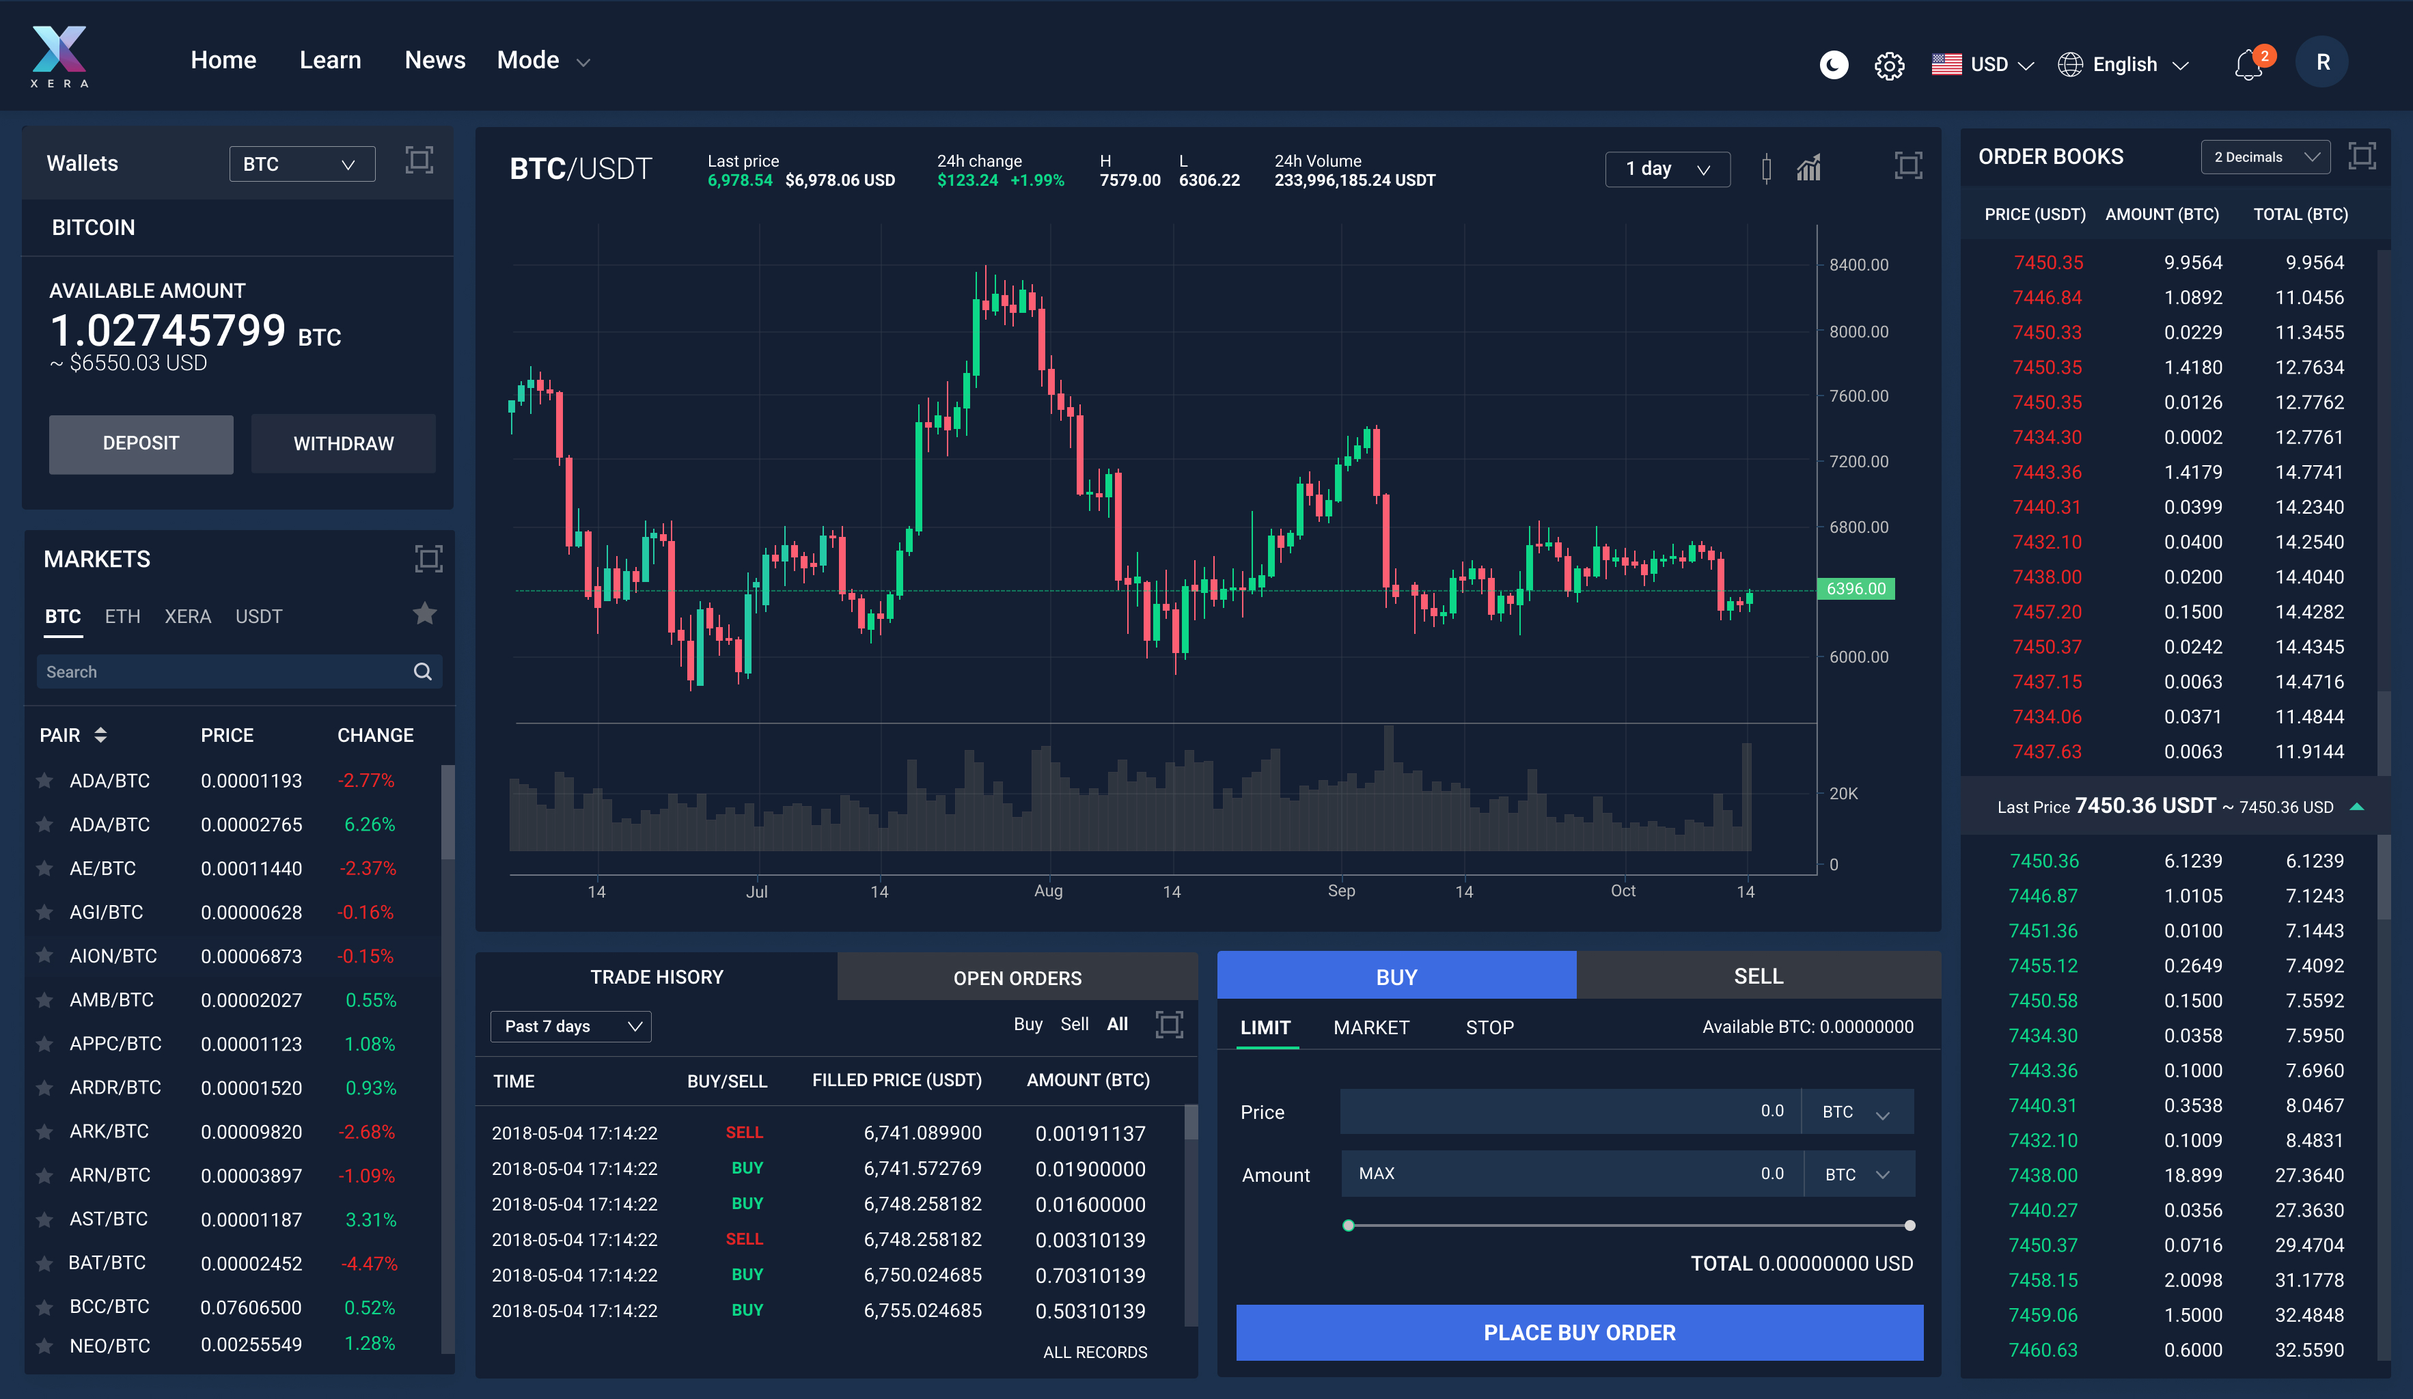
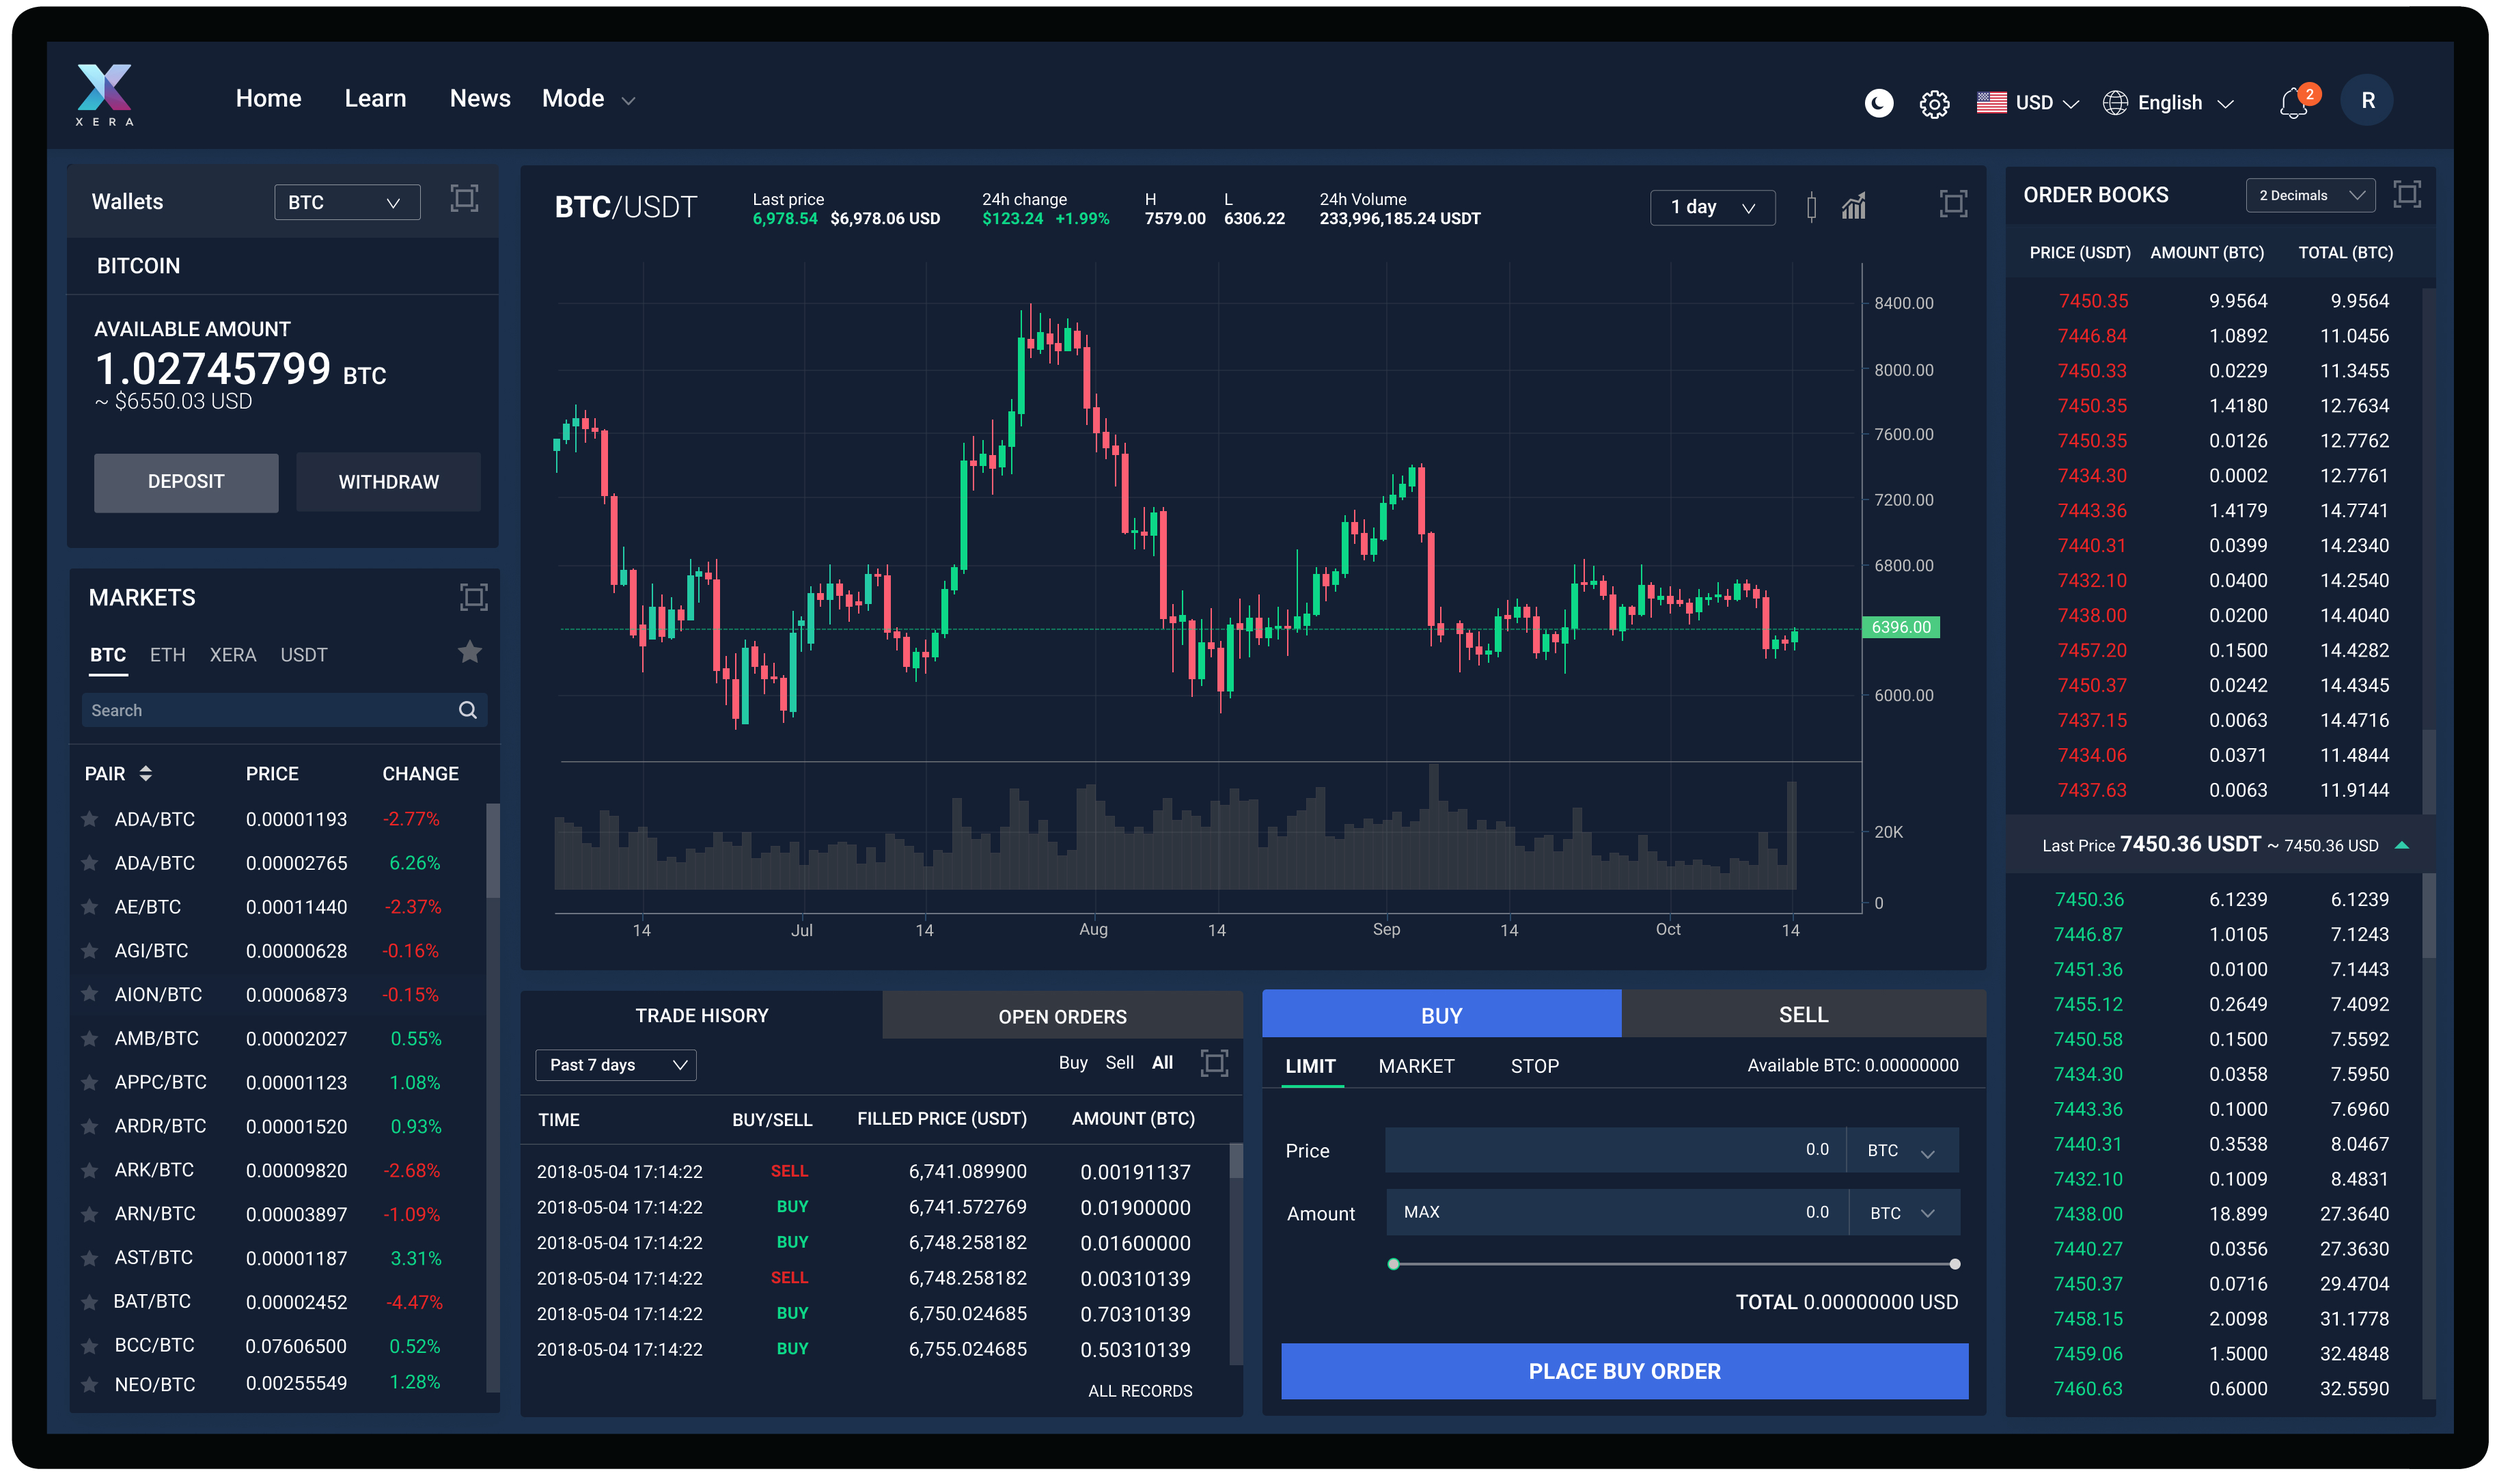
add screens

Changed region(s): [[0.0, 0.0, 1.0, 1.0], [0.436, 0.2812, 0.5294, 0.4688], [0.4049, 0.1875, 0.436, 0.2812]]

diff --git a/src/pages/xera.html b/src/pages/xera.html
@@ -38,64 +38,47 @@
     </div>
 </section>
 
-<!-- <section class="project-section xera-project-dashboard">
+<section class="project-section xera-dashboard">
     <div class="grid-container">
-        <div class="grid-x grid-margin-x">
-            <div class="cell large-5 project-section-content">
-                <div>
-                    <p class="sub-heading-01 uppercase">Designs<span></span></p>
-                </div>
-                <h5 class="uppercase">Dashboard</h5>
-                <p class="light-color">Lorem ipsum dolor sit amet consectetur adipisicing elit. Eius recusandae voluptates iusto impedit debitis, delectus molestias fuga temporibus? I was responsible for coming up with inital concepts pre ICO bla bla bla.</p>
+        <div class="grid-x">
+            <div class="cell large-8 medium-8 small-12 dashboard-content">
+                <h5 class="uppercase xera-heading"><span></span> The dashboard </h5>
             </div>
-            <div class="cell large-7 project-screen">
+        </div>
+        <div class="grid-x grid-margin-x">
+            <div class="cell large-10 large-offset-1 fw-img dashboard-img">    
                 <img src="assets/img/portfolio-items/xera/xera-dashboard.png" alt="">
             </div>
-        </div>
-
-    </div>
-</section> -->
-
-
-<section class="project-section xera-screens">
-    <div class="grid-container">
-        <!-- <div class="grid-x">
-            <div class="cell large-6 large-offset-2 medium-6 medium-offset-2 small-12 platform-content">
-                <h4 class="sub-heading-01 uppercase">The Designs <span></span></h4>
-                <p class="light-color">Lorem ipsum dolor sit amet consectetur adipisicing elit. Eius recusandae voluptates iusto impedit debitis, delectus molestias fuga temporibus? I was responsible for coming.</p>
-            </div>
-        </div> -->
-        <div class="grid-x grid-margin-x">
-            <div class="cell large-10 large-offset-1 fw-img">    
-                <img src="assets/img/portfolio-items/xera/xera-dashboard-02.png" alt="">
-            </div>
-            <div class="cell large-10 large-offset-1 fw-img">    
+            <div class="cell large-10 large-offset-1 fw-img dashboard-img">    
                 <img src="assets/img/portfolio-items/xera/xera-withdraw-02.png" alt=""> 
             </div>
-            <!-- <div class="cell large-10 large-offset-1 fw-img">    
-                <img src="assets/img/portfolio-items/xera/xera-mobile-temp.jpg" alt=""> 
-            </div> -->
         </div>
     </div>
-    <!-- <div class="platform-solid-bg"></div> -->
+    <div class="dashboard-solid-bg"></div>
 </section>
 
 
 
 <section class="project-section xera-styles">
     <div class="grid-container">
-        <div class="grid-x grid-margin-x">
-            <div class="cell large-12">
-                <h3 class="sub-heading-04 uppercase">Typography and colours<span></span></h3>
+        <div class="grid-x">
+            <div class="cell large-12 medium-12 small-12 style-content">
+                <h5 class="uppercase xera-heading"><span></span> Typography and colours</h5>
             </div>
+        </div>
+        <div class="grid-x grid-margin-x">
+            <!-- <div class="cell large-12">
+                <h3 class="sub-heading-04 uppercase">Typography and colours<span></span></h3>
+            </div> -->
+ 
             <div class="cell large-6 medium-12 small-12 xera-typeface">
-                <p class="sub-heading-01 uppercase">typeface</p>
+                <p class="sub-heading-01 uppercase text-reverse">typeface</p>
                 <p class="light-color typeface-intro">For maximum readability and special character support, Roboto was chosen as the primary typeface.</p>
-                <img src="assets/img/portfolio-items/xera/typeface.svg" alt="">
+                <img src="assets/img/portfolio-items/xera/typeface-reverse.svg" alt="">
             </div>
             <div class="cell large-6 medium-12 small-12">
                 <p class="sub-heading-01 uppercase">colours</p>
-                <img src="assets/img/portfolio-items/xera/color-styles.svg" alt="">
+                <img src="assets/img/portfolio-items/xera/color-style-reverse.svg" alt="">
             </div>
         </div>
     </div>
@@ -105,18 +88,19 @@
     <div class="grid-container">
         <div class="grid-x">
             <div class="cell large-8 medium-8 small-12 platform-content">
-                <!-- <p class="sub-heading-01 uppercase">Designs<span></span></p> --> 
-                <h4 class="sub-heading-01 uppercase">The platform <span></span></h4>
-                <p class="light-color">Lorem ipsum dolor sit amet consectetur adipisicing elit. Eius recusandae voluptates iusto impedit debitis, delectus molestias fuga temporibus? I was responsible for coming up with inital concepts pre ICO bla bla bla.</p>
+                <h5 class="uppercase xera-heading"><span></span> The platform </h5>
             </div>
         </div>
         <div class="grid-x">
             <div class="cell large-12 platform-img">    
-                <img src="assets/img/portfolio-items/xera/Xera-platform-01.png" alt="">
+                <img src="assets/img/portfolio-items/xera/Xera-platform-02.png" alt="">
             </div>
         </div>
     </div>
     <div class="platform-solid-bg"></div>
+    <div class="background-img">
+        <img src="assets/img/portfolio-items/xera/background-dots.png" alt="">
+    </div>
 </section>
 
 
@@ -125,6 +109,9 @@
         <img src="assets/img/portfolio-items/xera/wireframes.jpg" alt="">
     </section> -->
 
-    {{> footer}}
+    <div class="xera-footer">
+        {{> footer-reverse}}
+    </div>
+    
 
 <!-- End of footer wrapper -->

diff --git a/src/assets/scss/pages/_xera.scss b/src/assets/scss/pages/_xera.scss
@@ -12,10 +12,6 @@
 // }
 
 $xera-color: #3693C9;
-// $xera-color: #5073e1;
-// $xera-color: #2a4969;
-// $xera-color: #2b56f5;
-
 .xera-wrapper {
     background: #f2f3f7;
 }
@@ -27,7 +23,6 @@ $xera-color: #3693C9;
 // Xera hero section
 .xera-hero {
     position: relative;
-    // background: lighten($xera-color, 35);
     background: rgba($font-color, 0.01);
     .project-tag {
         font-family: $bold-font;
@@ -55,7 +50,6 @@ $xera-color: #3693C9;
 .bg-solid {
     height: 100vh;
     width: 30%;
-    // background: lighten($xera-color, 30);
     background: rgba($font-color, 0.02);
     position: absolute;
     right: 0;
@@ -75,50 +69,42 @@ $xera-color: #3693C9;
     }
 }
 
-.xera-project-dashboard {
-    .project-section-content {
-        display: flex;
-        flex-direction: column;
-        justify-content: center;
+// Dashboard
+.xera-dashboard {
+    padding: 90px 0px;
+    // background: $xera-gradient;
+    background: darken(#1B314D, 5);
+    position: relative;
+    .dashboard-img {
+        z-index: 10;
+    }
+    .dashboard-solid-bg {
+        height: 100%;
+        width: 30%;
+        // background: rgba($white, 0.02);
+        background: darken(#1B314D, 8);
+        position: absolute;
+        right: 0;
+        z-index: 0;  
+        bottom: 0px;
     }
 }
 
 .xera-screens {
     background: #F7F8F9;
 }
- 
-// Platform
-.xera-platform {
-    background: #F7F8F9;
-    position: relative;
-    .platform-content,
-    .platform-img {
-        z-index: 100;
-    }
-    .platform-content {
-        margin-bottom: 30px;
-    }
-    .platform-solid-bg {
-        height: 100%;
-        width: 30%;
-        // background: rgba($font-color, 0.05);
-        background: rgba($xera-color, 0.05);
-        // background: $xera-color;
-        position: absolute;
-        right: 0;
-        z-index: 1;  
-        bottom: 0px;
-    }
-}
 
 // Xera styles
 .xera-styles {
+    padding: 120px 0px;
+    background: darken(#1B314D, 10);
+    * {
+        color: $white;
+    }
     img {
         width: 100%;
     }
     .xera-typeface {
-        // border-right: none;
-        margin-bottom: 60px;
         .typeface-intro {
             padding-right: 30px;
             margin-bottom: 20px;
@@ -129,8 +115,67 @@ $xera-color: #3693C9;
 @media screen and (min-width: 64em){
     .xera-styles {
         .xera-typeface {
-            margin-bottom: 60px;
             border-right: 1px solid rgba($font-color, 0.15);
         }
     }
+}
+ 
+// Platform
+.xera-platform {
+    // background: $xera-gradient;
+    background: darken(#1B314D, 5);
+    position: relative;
+    padding: 120px 0px;
+    padding-bottom: 150px;
+    .platform-content,
+    .platform-img {
+        z-index: 10;
+    }
+    .platform-solid-bg {
+        height: 100%;
+        width: 30%;
+        // background: rgba($white, 0.02);
+        background: darken(#1B314D, 8);
+        position: absolute;
+        right: 0;
+        z-index: 1;  
+        bottom: 0px;
+    }
+    .background-img {
+        position: absolute;
+        bottom: 0;
+        img {
+            width: 100%;
+            opacity: 0.25;
+        }
+    }
+}
+
+
+// Heading
+
+.xera-heading {
+    color: rgba($white, 0.25);
+    display: inline-block;
+    position: relative;  
+    font-family: $black-font;
+    margin-left: 50px;
+    margin-bottom: 90px;
+    span::before { 
+        content: "";
+        position: absolute;
+        left: -50px;
+        height: 30px;
+        background: #39C2D3;
+        top: 50%;
+        transform: translateY(-50%);
+        width: 2px;
+    }
+}
+
+
+// Xera footer 
+.xera-footer {
+    // background: darken(#202b41, 4);
+    background: darken(#1B314D, 9);   
 }

diff --git a/src/assets/scss/components/_design.scss b/src/assets/scss/components/_design.scss
@@ -241,7 +241,7 @@ img {
 
 /* UTILITY CLASSES */
 
-.white-text {
+.text-reverse {
     color: $white !important;
 }
   
@@ -275,17 +275,17 @@ img {
 .sub-heading-03,
 .sub-heading-04 {
     margin-bottom: 30px;
-    color: rgba($font-color, 0.5) !important;
+    // color: rgba($font-color, 0.5) !important;
     display: inline-block;
     position: relative;  
-    font-family: $black-font;
+    font-family: $bold-font;
     span:after { 
         content: "";
         position: absolute;
         left: 100%;
         margin-left: 5px;
         height: 2px;
-        background: rgba($font-color, 0.5) !important;
+        // background: rgba($font-color, 0.5) !important;
         top: 50%;
         transform: translateY(-50%);
         width: 30px;
@@ -293,7 +293,7 @@ img {
 }
 
 .sub-heading-02 {
-    color: $font-color !important;
+    // color: $font-color !important;
     span:after { 
         content: "";
         background: $font-color !important;
@@ -301,7 +301,7 @@ img {
 }
 
 .sub-heading-03 {
-    color: $white !important;
+    // color: $white !important;
     span:after { 
         content: "";
         background: $white !important;

diff --git a/src/assets/scss/global/_colors.scss b/src/assets/scss/global/_colors.scss
@@ -7,3 +7,5 @@ $font-color-light: rgba($font-color, 0.6);
 $white: #FEFEE6;
 
 
+$xera-gradient: linear-gradient(135deg, #202b41,#202b41);
+// $xera-gradient: blue;
